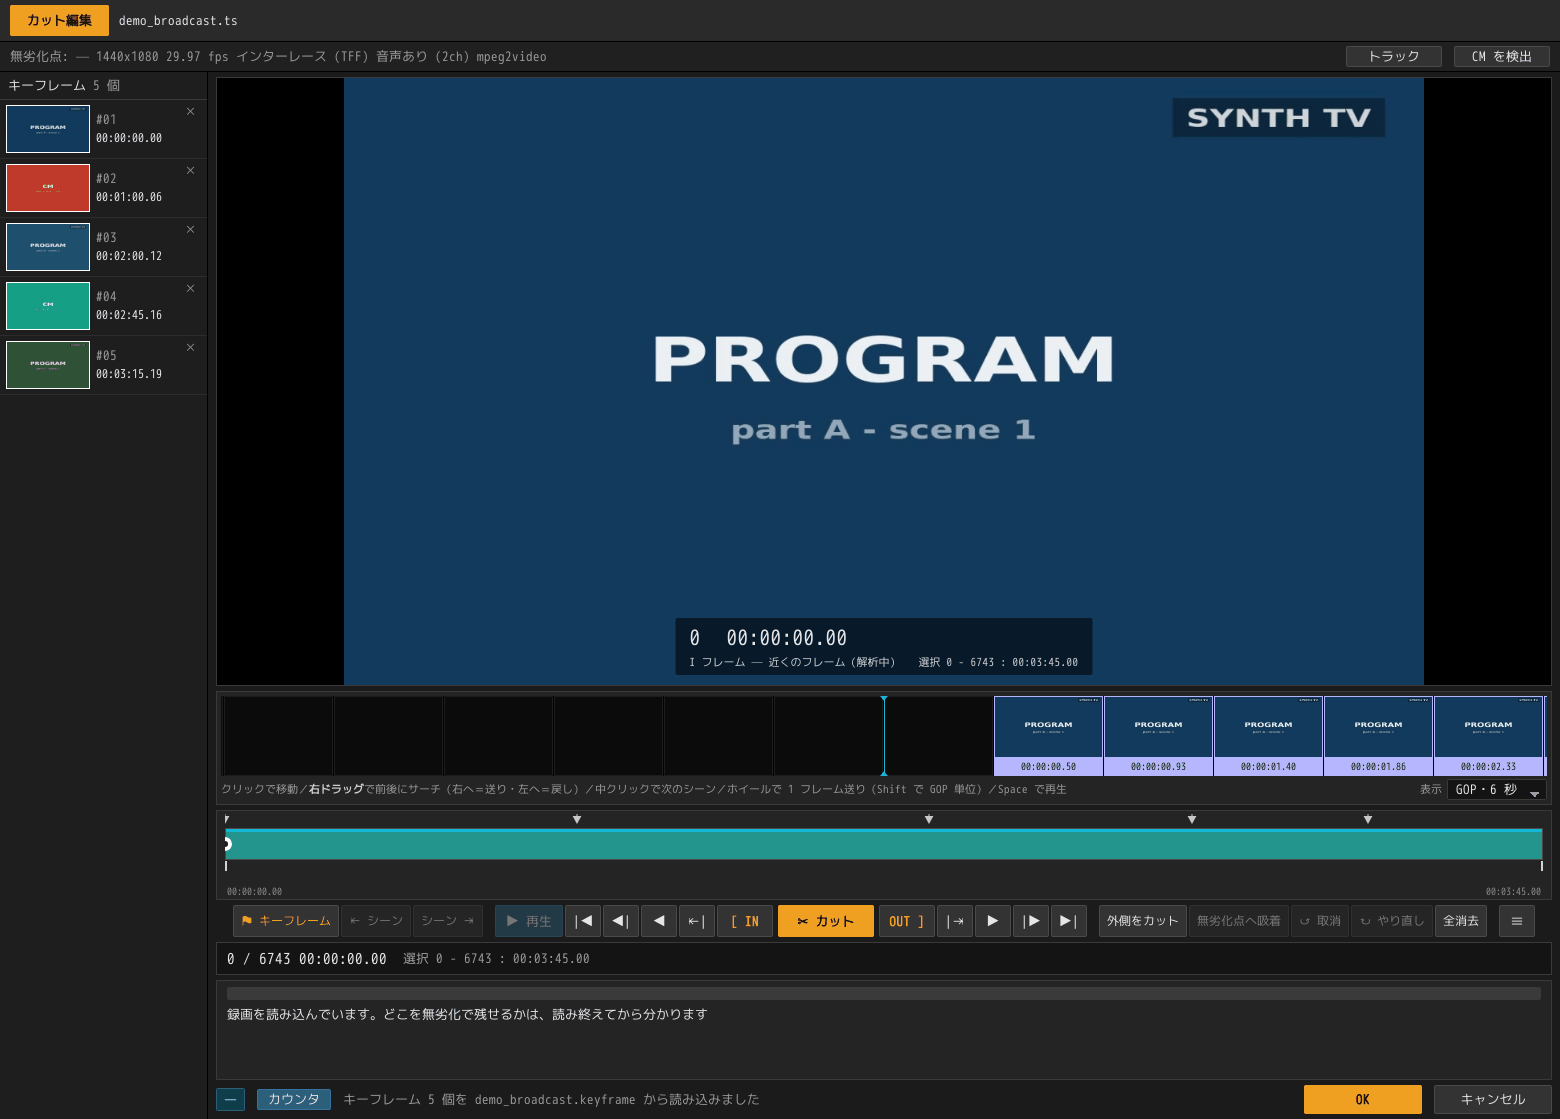
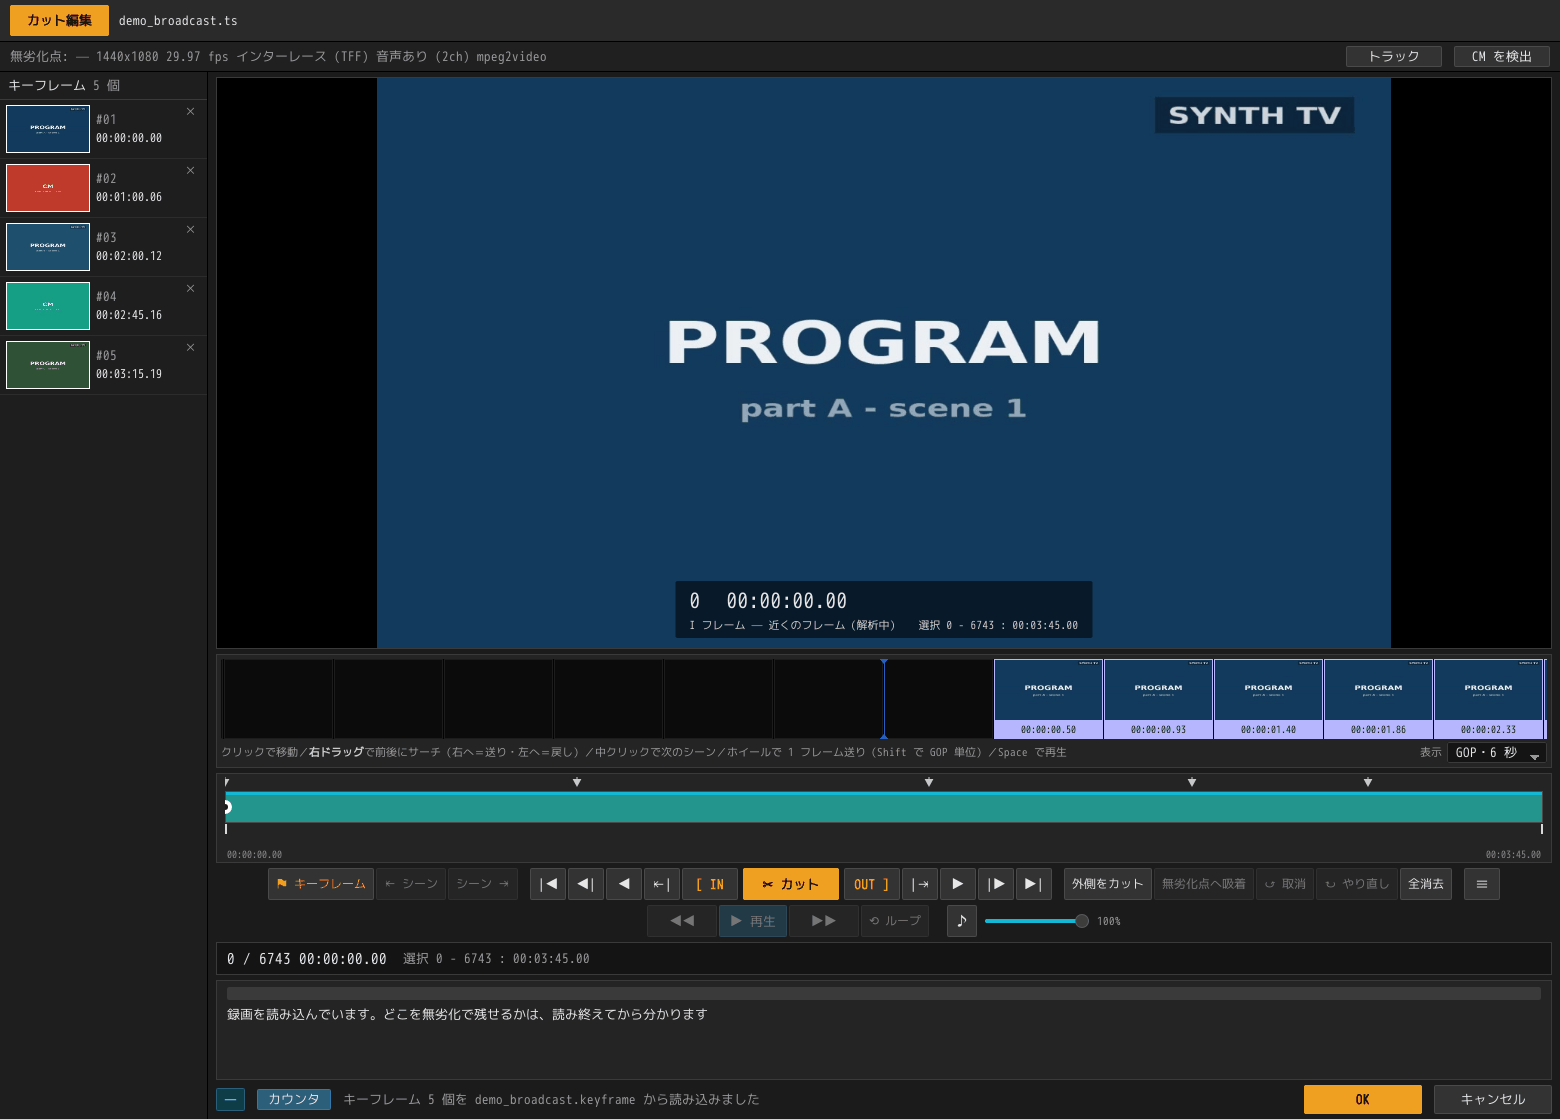
Photograph the editor with the playback row on it
Fourteen pictures of the cut editor and the two demo recordings, all of
them taken before 再生 moved out of the cutting row and the rewind, fast
forward, loop and volume arrived under it. Every one of them showed a
window this program no longer draws.

The demo is the same edit as before -- two breaks out of a three and
three-quarter minute recording -- with the second join left off a
lossless point on purpose, so that the picture says what the program is
for: 134.41 seconds copied byte for byte and fourteen frames re-encoded.
The README's two lines carry the numbers this recording actually came to.

Changed region(s): [[0.1231, 0.0608, 1.0, 0.8508], [0.4, 0.2735, 0.7385, 0.395], [0.7692, 0.8204, 0.8, 0.8508]]

diff --git a/README.md b/README.md
@@ -105,8 +105,8 @@ machine to sleep or shut it down when the queue is empty. See
 
 Two commercial blocks are removed from a 3 minute 45 second recording:
 
-- **133.91 seconds copied bit-for-bit, 0.57 seconds re-encoded**
-- **17 frames out of 6743 were touched at all**
+- **134.41 seconds copied bit-for-bit, 0.47 seconds re-encoded**
+- **14 frames out of 6743 were touched at all**
 
 The clip is a practice recording built by
 [`tests/make_demo_media.sh`](tests/make_demo_media.sh) out of ffmpeg's own test
